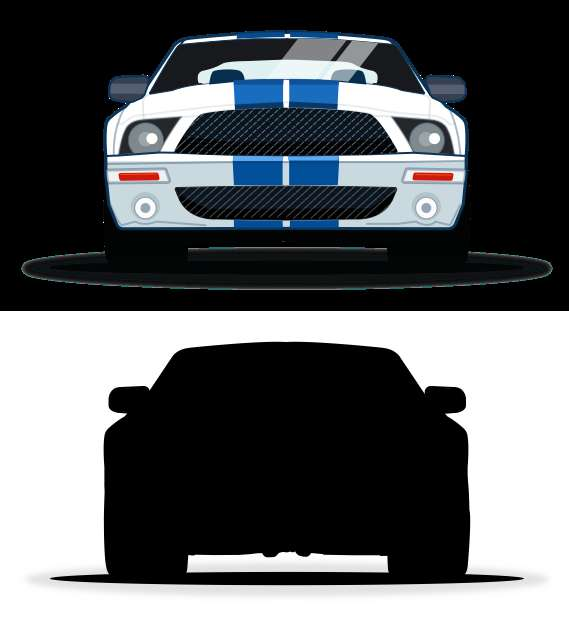
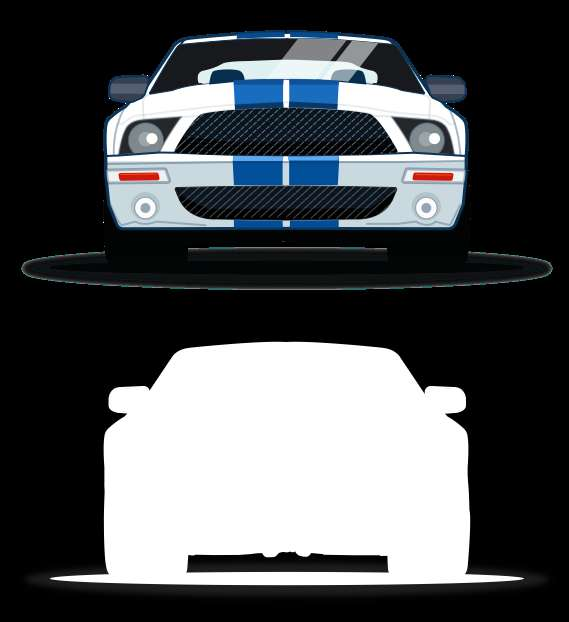
fix combined version

diff --git a/decoder/dist/ajpeg.js b/decoder/dist/ajpeg.js
@@ -1,65 +1,124 @@
-(function e(t,n,r){function s(o,u){if(!n[o]){if(!t[o]){var a=typeof require=="function"&&require;if(!u&&a)return a(o,!0);if(i)return i(o,!0);var f=new Error("Cannot find module '"+o+"'");throw f.code="MODULE_NOT_FOUND",f}var l=n[o]={exports:{}};t[o][0].call(l.exports,function(e){var n=t[o][1][e];return s(n?n:e)},l,l.exports,e,t,n,r)}return n[o].exports}var i=typeof require=="function"&&require;for(var o=0;o<r.length;o++)s(r[o]);return s})({1:[function(require,module,exports){
-'use strict';
-
-(function () {
-    var AJPEG = window.AJPEG = function (config) {
-        var self = this;
-        self.img = null;
-        self.mask = null;
-
-        self.load = function (src, cb) {
-            function onAllLoaded() {
-                cb.call(self);
+(function e(t, n, r) {
+    function s(o, u) {
+        if (!n[o]) {
+            if (!t[o]) {
+                var a = typeof require == "function" && require;
+                if (!u && a)return a(o, !0);
+                if (i)return i(o, !0);
+                var f = new Error("Cannot find module '" + o + "'");
+                throw f.code = "MODULE_NOT_FOUND", f
             }
-
-            self.img = loadImage(src, onAllLoaded.bind(self));
-        };
-
-        self.toDataURL = function () {
-            return self.toCanvas().toDataURL();
-        };
-
-        self.toCanvas = function () {
-            var imagecanvas = document.createElement('canvas');
-            var imagecontext = imagecanvas.getContext('2d');
-
-            imagecanvas.width = self.img.width;
-            imagecanvas.height = self.img.height / 2;
-
-            imagecontext.drawImage(self.img, 0, self.img.height / 2, self.img.width, self.img.height / 2, 0, 0, self.img.width, self.img.height / 2);
-            imagecontext.globalCompositeOperation = "lighter";
-            imagecontext.drawImage(self.img, 0, 0, self.img.width, self.img.height / 2, 0, 0, self.img.width, self.img.height / 2);
-            return imagecanvas;
-        };
-    };
-
-    AJPEG.parse = function (attr) {
-        if (typeof attr == "undefined" || !attr) attr = 'alpha-src';
-        setTimeout(function () {
-            var ims = document.querySelectorAll('img[' + attr + ']'),
-                img;
-            for (var i = 0; i < ims.length; i++) {
-                img = ims[i];
-                new AJPEG().load(ims[i].attributes[attr].value, function () {
-                    img.src = this.toDataURL();
-                });
-            }
-        });
-    };
-
-    function loadImage(src, cb) {
-        var img = new Image();
-        img.loaded = false;
-        img.onload = function () {
-            img.loaded = true;
-            cb();
-        };
-        img.src = src;
-        return img;
+            var l = n[o] = {exports: {}};
+            t[o][0].call(l.exports, function (e) {
+                var n = t[o][1][e];
+                return s(n ? n : e)
+            }, l, l.exports, e, t, n, r)
+        }
+        return n[o].exports
     }
 
-    if (typeof module != "undefined") module.exports = AJPEG;
-})();
+    var i = typeof require == "function" && require;
+    for (var o = 0; o < r.length; o++)s(r[o]);
+    return s
+})({
+    1: [function (require, module, exports) {
+        'use strict';
 
-},{}]},{},[1])
+        (function () {
+            var AJPEG = window.AJPEG = function (config) {
+                var self = this;
+                self.img = null;
+                self.mask = null;
+
+                var composites = [
+                    "source-over",
+                    "source-in",
+                    "source-out",
+                    "source-atop",
+                    "destination-over",
+                    "destination-in",//5
+                    "destination-out",
+                    "destination-atop",
+                    "lighter",
+                    "xor",
+                    "multiply",//10
+                    "screen",
+                    "overlay",
+                    "darken",
+                    "lighten",
+                    "color-dodge",//15
+                    "color-burn",
+                    "hard-light",
+                    "soft-light",
+                    "difference",
+                    "exclusion",//20
+                    "hue",
+                    "saturation",
+                    "color",
+                    "luminosity"
+                ];
+                var compo = composites[3];
+
+                self.load = function (src, cb) {
+                    function onAllLoaded() {
+                        cb.call(self);
+                    }
+
+                    self.img = loadImage(src, onAllLoaded.bind(self));
+                };
+
+                self.toDataURL = function () {
+                    return self.toCanvas().toDataURL();
+                };
+
+                self.toCanvas = function () {
+
+                    var imagecanvas = document.createElement('canvas');
+                    var imagecontext = imagecanvas.getContext('2d');
+
+                    imagecanvas.width = self.img.width;
+                    imagecanvas.height = self.img.height / 2;
+
+                    imagecontext.drawImage(self.img, 0, self.img.height / 2, self.img.width, self.img.height / 2, 0, 0, self.img.width, self.img.height / 2);
+                    var imgData = imagecontext.getImageData(0, 0, imagecanvas.width, imagecanvas.height);
+                    for (var i = 0; i < imgData.data.length; i += 4)
+                        imgData.data[i + 3] = imgData.data[i];
+                    imagecontext.putImageData(imgData, 0, 0);
+                    imagecontext.globalCompositeOperation = compo;
+                    imagecontext.drawImage(self.img, 0, 0, self.img.width, self.img.height / 2, 0, 0, self.img.width, self.img.height / 2);
+
+                    return imagecanvas;
+                };
+            };
+
+            AJPEG.parse = function (attr) {
+                if (typeof attr == "undefined" || !attr) attr = 'alpha-src';
+                setTimeout(function () {
+                    var ims = document.querySelectorAll('img[' + attr + ']'),
+                        img;
+                    for (var i = 0; i < ims.length; i++) {
+                        img = ims[i];
+                        new AJPEG().load(ims[i].attributes[attr].value, function () {
+                            img.src = this.toDataURL();
+                        });
+                    }
+                });
+            };
+
+            function loadImage(src, cb) {
+                var img = new Image();
+                img.loaded = false;
+                img.onload = function () {
+                    img.loaded = true;
+                    cb();
+                };
+                img.src = src;
+                return img;
+            }
+
+            if (typeof module != "undefined") module.exports = AJPEG;
+        })();
+
+    }, {}]
+}, {}, [1])
[1 lines of base64/hex data omitted]

diff --git a/encoder/index.js b/encoder/index.js
@@ -22,6 +22,7 @@ var plugin = function (opts) {
         return stream.pipe(es.map(function (file, cb) {
             var png = PNG.sync.read(file.contents);
             var data = new Buffer(4 * png.width * png.height * 2);
+
             for (var y = 0; y < png.height; y++) {
                 for (var x = 0; x < png.width; x++) {
                     var idx = (png.width * y + x) << 2;
@@ -37,17 +38,17 @@ var plugin = function (opts) {
                 }
             }
 
-            var png2 = PNG.sync.read(file.contents);
-            for (var y = 0; y < png2.height; y++) {
-                for (var x = 0; x < png2.width; x++) {
-                    var idx = (png2.width * y + x) << 2;
-                    var idx2 = (png2.width * (y + png2.height) + x) << 2;
+            for (var y = 0; y < png.height; y++) {
+                for (var x = 0; x < png.width; x++) {
+                    var idx = (png.width * y + x) << 2;
+                    var idx2 = (png.width * (y + png.height) + x) << 2;
                     for (var i = 0; i < 3; i++) {
-                        data[idx2 + i] = 0xff - png2.data[idx + 3];
+                        data[idx2 + i] = png.data[idx + 3];
                     }
-                    data[idx2 + 3] = (0xff);
+                    data[idx2 + 3] = 0xff;
                 }
             }
+
             png.data = data;
             png.height = png.height * 2;
             file.contents = PNG.sync.write(png);

diff --git a/decoder/demo/index.html b/decoder/demo/index.html
@@ -22,3 +22,8 @@
 <img alpha-src="assets/fordmustang.jpg"/>
 
 
+<style>
+    body {
+        background-color: #DDDDDD;
+    }
+</style>
